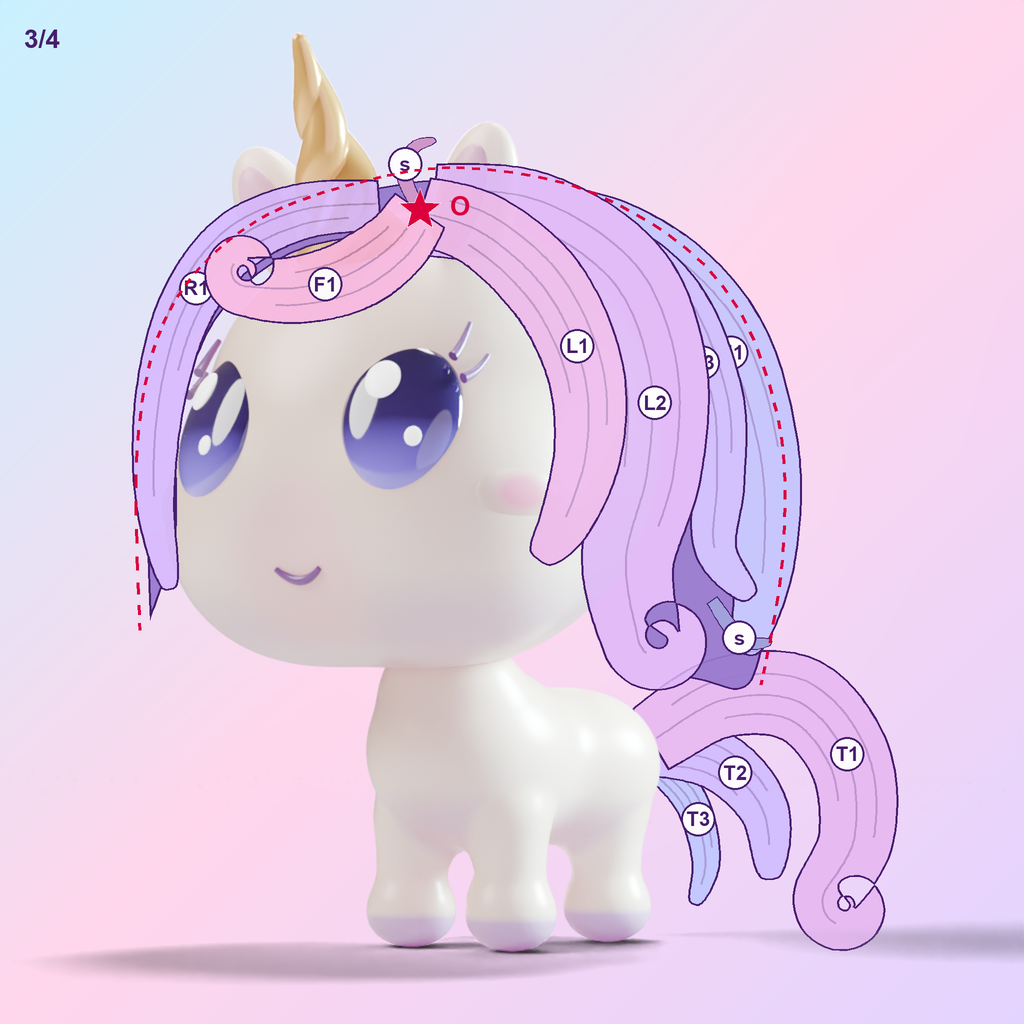
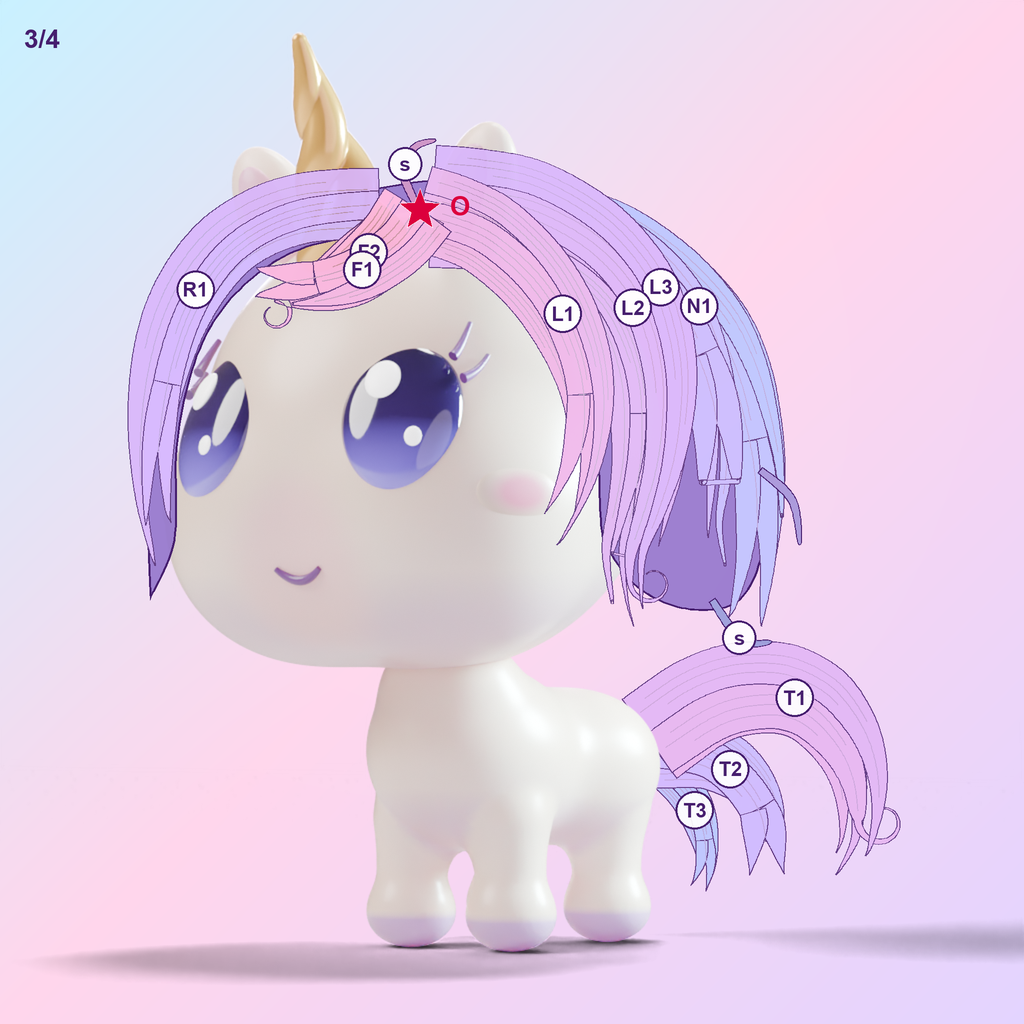
docs(spike): finer mane target from sketchfab and meshy references

Changed region(s): [[0.125, 0.125, 0.875, 0.9062]]

diff --git a/docs/spikes/style-2026-10/target.html b/docs/spikes/style-2026-10/target.html
@@ -141,19 +141,24 @@
             corne.
           </li>
           <li>
-            <b>Trois tailles de mèches</b>, pas une : grosse (L2, T1), moyenne
-            (L1, N1, F1, R1), petite (L3, F2, T3), plus seulement
-            <b>2 brins fins</b> (« s ») placés exprès.
+            <b>Finesse, à la manière des références ci-dessous</b> : chaque
+            mèche lisible (L1, L2…) est un <b>faisceau de 3 à 6 mèches fines</b>
+            de largeurs différentes qui se chevauchent, avec de fins sillons à
+            l'intérieur ; les pointes s'effilent longuement et une sur trois se
+            fourche en deux. Écart entre mèches fines : 11 à 20 px pour une tête
+            d'environ 495 px de large en 3/4 (1/25 à 1/45 de la tête).
           </li>
           <li>
-            <b>Le détail = des sillons sculptés dans chaque mèche</b> (les
-            traits fins à l'intérieur), façon figurine vinyle. Plus de brins
-            séparés en spaghetti (A4 à A7).
+            <b>Mais une hiérarchie</b> : faisceaux de trois tailles — gros (L2,
+            T1), moyens (L1, N1, F1, R1), petits (L3, F2, T3) — et seulement 3
+            brins isolés (« s ») placés exprès. Des mèches fines toutes égales
+            donnent des spaghettis (A4 à A7) : essayé sur cette carte, même
+            résultat.
           </li>
           <li>
-            <b>Trois boucles en tout</b> : bout de la frange F1, bout de L2,
-            bout de la queue T1. Les autres pointes finissent <b>arrondies</b>,
-            pas en aiguille.
+            <b>Trois boucles en tout</b>, portées par la mèche la plus large de
+            son faisceau : bout de la frange F1, bout de L2, bout de la queue
+            T1.
           </li>
           <li>
             <b>Asymétrie voulue</b> : la frange part vers l'œil droit, le volume
@@ -171,6 +176,56 @@
           </li>
         </ol>
       </div>
+
+      <h2>Références de finesse</h2>
+      <p>
+        Trouvées sur Sketchfab (le wiki y renvoie pour les modèles 3D). Liens
+        seulement : leur licence ne permet pas de les copier ici. La finesse de
+        la cible vient surtout des trois premières.
+      </p>
+      <ul>
+        <li>
+          <a
+            href="https://sketchfab.com/3d-models/9edad864ed3140b2a74cd18fb3dabb08"
+            >Hair 45</a
+          >,
+          <a
+            href="https://sketchfab.com/3d-models/c0a7b83bb14f439683c30a3c0a60f44d"
+            >Hair 37</a
+          >,
+          <a
+            href="https://sketchfab.com/3d-models/44b1eaf39cf24fc497e15b44ca0cf8b1"
+            >Hair 40</a
+          >
+          (rumpelshtiltshin) : mèches étroites en couches, sillons fins, pointes
+          effilées et fourchues, quelques brins isolés.
+        </li>
+        <li>
+          <a
+            href="https://sketchfab.com/3d-models/5467d838454146e79413c51f76349768"
+            >Lowpoly Stylized Unicorn</a
+          >
+          (hugechimera) : crinière de licorne en nombreuses petites mèches
+          pointues.
+        </li>
+        <li>
+          <a
+            href="https://www.meshy.ai/fr/posts/01943ba0-b47c-795c-917f-0f5fbd60d637"
+            >Cute little cartoon unicorn</a
+          >
+          (Meshy, CC0) : licorne chibi au dégradé rose → violet → bleu, grande
+          mèche sur le front, crinière d'un côté. Référence de <b>forme</b>
+          seulement : en « mode solide » sa crinière est une masse lisse, la
+          finesse est peinte dans la texture (9 930 faces).
+        </li>
+        <li>
+          <a
+            href="https://sketchfab.com/3d-models/144fe93ac4f54651b25f753067e80d45"
+            >Pony luna</a
+          >
+          (Whalenut) : contre-exemple, une grande nappe lisse sans finesse.
+        </li>
+      </ul>
 
       <h2>Les 4 vues</h2>
       <div class="grid">
@@ -254,7 +309,7 @@
         ['droit', 'Côté droit R1, R2 (plus mince)'],
         ['nuque', 'Nuque N1 à N3 (vue de dos)'],
         ['boucles', '3 boucles seulement (F1, L2, T1)'],
-        ['sillons', 'Détail en sillons sculptés'],
+        ['finesse', 'Finesse (faisceaux de mèches fines)'],
         ['queue', 'Queue T1 à T3'],
         ['longueur', 'Longueur (jusque sous le menton)'],
       ];

diff --git a/docs/spikes/style-2026-10/target/paintover.py b/docs/spikes/style-2026-10/target/paintover.py
@@ -8,6 +8,9 @@ Clump = (label, class, centreline points, max half-width px, curl or None, colou
   class 'M' = medium clump (filled, with sculpted grooves), 'S' = small strand (thin);
   curl = (radius px, turns, +1 / -1 direction), a roll appended to the tip;
   "back" = drawn behind the character (masked by its alpha). Drawn in list order.
+A clump may also be a dict, a section of fine locks (see section_locks): either "edges" (two
+polylines) or "spine" + "half" (a bundle converging to its tip), with "n" locks, colour range
+"t", and optional "curl", "seed", "min_len", "max_w", "overlap", "back", "label".
 Marks: ("base", points) solid big form under every clump, ("origin", x, y, label) the whorl
 every lock starts from, ("silhouette", points) the dashed outline of the big form.
 """
@@ -72,12 +75,19 @@ def normal(c, i):
     return -(b[1] - a[1]) / L, (b[0] - a[0]) / L
 
 
-def ribbon(c, w):
+def fine_width(t, w):
+    """Fine lock: full width to mid-length, then a long gradual taper to a fine point."""
+    s = min(max((t - 0.4) / 0.6, 0.0), 1.0)
+    return w * ((1 - s * s * (3 - 2 * s)) ** 0.85 * 0.97 + 0.03)
+
+
+def ribbon(c, w, prof=width, t0=0.0, t1=1.0):
+    """Outline of a ribbon of half-width prof(t, w) along c; t runs t0 -> t1 over c."""
     n = len(c) - 1
     left, right = [], []
     for i, (x, y) in enumerate(c):
         nx, ny = normal(c, i)
-        ww = width(i / n, w)
+        ww = prof(t0 + (t1 - t0) * i / n, w)
         left.append((x + nx * ww, y + ny * ww))
         right.append((x - nx * ww, y - ny * ww))
     return left + right[::-1]
@@ -112,6 +122,94 @@ def draw_clump(d, label, cls, pts, w, curl, t, font):
         d.text((x, y), label, fill=INK, font=font, anchor="mm")
 
 
+def resample(pts, m):
+    """Polyline -> m points evenly spaced along its length."""
+    c = catmull(pts, 16)
+    acc = [0.0]
+    for a, b in zip(c, c[1:]):
+        acc.append(acc[-1] + math.hypot(b[0] - a[0], b[1] - a[1]))
+    out, j = [], 0
+    for k in range(m):
+        s = acc[-1] * k / (m - 1)
+        while j < len(acc) - 2 and acc[j + 1] < s:
+            j += 1
+        f = (s - acc[j]) / ((acc[j + 1] - acc[j]) or 1)
+        out.append((c[j][0] + (c[j + 1][0] - c[j][0]) * f, c[j][1] + (c[j + 1][1] - c[j][1]) * f))
+    return out
+
+
+def frac(x):
+    return x - math.floor(x)
+
+
+def section_locks(sec):
+    """A big form split into n fine locks flowing between its two edges (screen polylines, root
+    first). Deterministic variation per lock (golden-ratio sequence): length, a slight sideways
+    wave, and a forked tip on every third lock; one lock may end in a curl."""
+    if "spine" in sec:  # a bundle: edges = spine +- half-width, converging towards the tip
+        sp = resample(sec["spine"], 40)
+        a, b = [], []
+        for i, (x, y) in enumerate(sp):
+            nx, ny = normal(sp, i)
+            h = sec["half"] * (1.0 - 0.75 * (i / 39) ** 1.6)
+            a.append((x + nx * h, y + ny * h))
+            b.append((x - nx * h, y - ny * h))
+    else:
+        a, b = resample(sec["edges"][0], 40), resample(sec["edges"][1], 40)
+    n = sec["n"]
+    locks = []
+    for k in range(n):
+        u = (k + 0.5) / n
+        g = frac(k * 0.618 + sec.get("seed", 0.0))
+        length = sec.get("min_len", 0.72) + (1 - sec.get("min_len", 0.72)) * g
+        pts = [(a[i][0] + (b[i][0] - a[i][0]) * u, a[i][1] + (b[i][1] - a[i][1]) * u) for i in range(40)]
+        pts = pts[: max(int(40 * length), 6)]
+        spacing = math.hypot(b[20][0] - a[20][0], b[20][1] - a[20][1]) / n
+        wave = spacing * 0.35
+        pts = [(x + normal(pts, i)[0] * wave * math.sin(math.pi * i / len(pts) + 6.3 * g), y + normal(pts, i)[1] * wave * math.sin(math.pi * i / len(pts) + 6.3 * g)) for i, (x, y) in enumerate(pts)]
+        w = min(spacing * sec.get("overlap", 1.25), sec.get("max_w", 26)) * (0.65 + 0.7 * frac(k * 0.382 + sec.get("seed", 0.0)))
+        widest = max(range(n), key=lambda j: frac(j * 0.382 + sec.get("seed", 0.0)))
+        curl = sec["curl"] if "curl" in sec and k == widest else None
+        locks.append((pts[::3] + [pts[-1]], w, curl, sec["t"][0] + (sec["t"][1] - sec["t"][0]) * u, k % 3 == 1 and not curl))
+    order = sorted(range(n), key=lambda k: (k % 2, k)) if sec.get("interleave", True) else range(n)
+    return [locks[k] for k in order]
+
+
+FINE_GROOVES = ((-0.4, 0.06, 0.62), (0.0, 0.03, 0.8), (0.42, 0.1, 0.55))
+
+
+def draw_fine_lock(d, pts, w, curl, t, fork):
+    """A fine lock: three fine sculpted grooves, a long gradual taper; `fork` splits the last 35 %
+    into two thinner tips that part slightly."""
+    c = catmull([(x * SS, y * SS) for x, y in pts])
+    if curl:
+        c = add_curl(c, (curl[0] * SS, curl[1], curl[2]))
+    col = ramp(t)
+    W = w * SS
+    fill, edge = col + (232,), INK + (210,)
+    n = len(c) - 1
+    if fork:
+        cut = int(n * 0.65)
+        d.polygon(ribbon(c[: cut + 1], W, fine_width, 0.0, 0.4), fill=fill, outline=edge, width=SS)
+        for s in (-1, 1):
+            br = []
+            for i in range(cut, n + 1):
+                nx, ny = normal(c, i)
+                f = (i - cut) / (n - cut)
+                br.append((c[i][0] + nx * s * W * (0.3 + 0.6 * f), c[i][1] + ny * s * W * (0.3 + 0.6 * f)))
+            d.polygon(ribbon(br, W * 0.7, fine_width, 0.3, 1.0), fill=fill, outline=edge, width=SS)
+    else:
+        d.polygon(ribbon(c, W, fine_width), fill=fill, outline=edge, width=SS)
+    for off, start, end in FINE_GROOVES:
+        g = []
+        for i in range(int(n * start), int(n * end)):
+            nx, ny = normal(c, i)
+            ww = fine_width(i / n, W) * off
+            g.append((c[i][0] + nx * ww, c[i][1] + ny * ww))
+        if len(g) > 1:
+            d.line(g, fill=lerp(col, INK, 0.3) + (150,), width=SS)
+
+
 def draw_marks(d, marks, font):
     for kind, *rest in marks:
         if kind == "origin":
@@ -136,8 +234,23 @@ def draw(base, clumps, marks, out, title):
         if kind == "base":
             pts = [(x * SS, y * SS) for x, y in rest[0]]
             df.polygon(catmull(pts + pts[:1], 12), fill=BASE_FILL, outline=INK + (255,), width=2 * SS)
-    for label, cls, pts, w, curl, t, *layer in clumps:
+    for item in clumps:
+        if isinstance(item, dict):  # a section of fine locks
+            for pts, w, curl, t, fork in section_locks(item):
+                draw_fine_lock(db if item.get("back") else df, pts, w, curl, t, fork)
+            continue
+        label, cls, pts, w, curl, t, *layer = item
         draw_clump(db if layer == ["back"] else df, label, cls, pts, w, curl, t, small)
+    for item in clumps:  # section labels on top
+        if isinstance(item, dict) and item.get("label"):
+            if "spine" in item:
+                x, y = resample(item["spine"], 40)[16]
+            else:
+                (x1, y1), (x2, y2) = resample(item["edges"][0], 40)[12], resample(item["edges"][1], 40)[12]
+                x, y = (x1 + x2) / 2, (y1 + y2) / 2
+            x, y = x * SS, y * SS
+            df.ellipse((x - 19 * SS, y - 19 * SS, x + 19 * SS, y + 19 * SS), fill=(255, 255, 255, 235), outline=INK + (255,), width=2 * SS)
+            df.text((x, y), item["label"], fill=INK, font=small, anchor="mm")
     draw_marks(df, marks, font)
     char = Image.open(base.replace("_gradient", "_alpha")).convert("L").resize(size)
     back.putalpha(Image.composite(back.getchannel("A"), Image.new("L", size, 0), Image.eval(char, lambda a: 255 - a)))

diff --git a/docs/spikes/style-2026-10/target/design.py b/docs/spikes/style-2026-10/target/design.py
@@ -1,6 +1,6 @@
 """Target design of the mane and tail (2026-10-24), four views, for paintover.py.
 
-A paint-over MAP, not a render: tapered 2D ribbons placed by hand over the bald renders made by
+A paint-over MAP, not a render: clumps (gesture lines) placed by hand over the bald renders made by
 bald_views.py (same framing as A7), using the skull landmarks that script prints.
 Labels: F forelock, L character's left side (camera side in 3/4), R character's right side,
 N nape, T tail, s small strand. 'back' = drawn behind the character. "base" = the solid big form
@@ -17,6 +17,27 @@ def out(view):
     return os.path.join(HERE, f"target_{view}.png")
 
 
+def bundle(label, spine, half, t, curl=None, back=False, seed=0.0):
+    """One readable clump (gesture = spine, half-width = half) drawn as 3-6 fine locks of varied
+    widths converging to the tip (user, 2026-10-24: « attention à la finesse de la crinière »)."""
+    n = max(3, min(6, round(half / 9)))
+    sec = {"label": label, "spine": spine, "half": half, "n": n, "t": (t - 0.07, t + 0.07), "min_len": 0.78, "seed": seed, "back": back}
+    if curl:
+        sec["curl"] = curl
+    return sec
+
+
+def fine(clumps):
+    """Medium clumps ('M') -> bundles of fine locks; small strands ('S') kept as they are."""
+    res = []
+    for k, (label, cls, pts, w, curl, t, *layer) in enumerate(clumps):
+        if cls == "M":
+            res.append(bundle(label, pts, w, t, curl, layer == ["back"], seed=(k * 0.29) % 1))
+        else:
+            res.append((label, cls, pts, w * 0.6, curl, t, *layer))
+    return res
+
+
 Q = [
     ("T3", "M", [(650, 760), (690, 800), (706, 860), (694, 905)], 16, None, 0.85, "back"),
     ("T2", "M", [(648, 750), (716, 760), (764, 810), (770, 880)], 28, None, 0.6, "back"),
@@ -27,12 +48,13 @@ Q = [
     ("L2", "M", [(432, 210), (530, 222), (615, 280), (652, 370), (650, 470), (628, 560), (640, 640)], 52, (22, 0.85, -1), 0.4),
     ("L1", "M", [(420, 210), (485, 232), (548, 290), (585, 370), (588, 450), (566, 520), (538, 560)], 38, None, 0.2),
     ("s", "S", [(712, 600), (742, 640), (772, 642)], 7, None, 0.9),
+    ("", "S", [(760, 470), (792, 500), (800, 545)], 7, None, 0.7),
     ("F2", "M", [(408, 214), (372, 250), (330, 272), (296, 280)], 20, None, 0.12),
     ("F1", "M", [(420, 210), (395, 245), (350, 276), (295, 290), (245, 288)], 34, (18, 0.9, 1), 0.05),
     ("s", "S", [(418, 208), (404, 174), (414, 148), (436, 140)], 7, None, 0.05),
 ]
 Q_MARKS = [
-    ("base", [(150, 620), (148, 440), (180, 315), (255, 232), (360, 192), (470, 180), (600, 205), (715, 290), (768, 425), (772, 560), (752, 680), (700, 680), (640, 660), (610, 600), (600, 520), (595, 430), (570, 340), (520, 270), (450, 235), (380, 235), (300, 250), (240, 290), (200, 350), (178, 440), (175, 540)]),
+    ("base", [(150, 600), (148, 440), (180, 315), (255, 232), (360, 192), (470, 180), (600, 205), (715, 290), (765, 425), (765, 540), (740, 600), (690, 610), (640, 590), (608, 550), (600, 520), (595, 430), (570, 340), (520, 270), (450, 235), (380, 235), (300, 250), (240, 290), (200, 350), (178, 440), (175, 540)]),
     ("origin", 420, 210, "O"),
     ("silhouette", [(140, 630), (138, 440), (170, 310), (250, 225), (360, 182), (472, 168), (605, 198), (722, 285), (778, 420), (782, 560), (760, 690)]),
 ]
@@ -48,7 +70,7 @@ FRONT = [
     ("s", "S", [(535, 210), (528, 176), (542, 150), (566, 144)], 7, None, 0.05),
 ]
 FRONT_MARKS = [
-    ("base", [(235, 600), (232, 450), (258, 330), (335, 240), (445, 200), (560, 192), (688, 225), (782, 305), (822, 430), (822, 560), (800, 640), (760, 640), (745, 560), (745, 470), (725, 380), (680, 300), (610, 255), (520, 240), (430, 250), (355, 280), (300, 340), (275, 430), (268, 520), (262, 600)]),
+    ("base", [(240, 555), (232, 450), (258, 330), (335, 240), (445, 200), (560, 192), (688, 225), (782, 305), (815, 430), (812, 530), (790, 570), (758, 560), (745, 500), (740, 440), (725, 380), (680, 300), (610, 255), (520, 240), (430, 250), (355, 280), (300, 340), (275, 430), (270, 520), (262, 560)]),
     ("origin", 535, 212, "O"),
     ("silhouette", [(225, 600), (222, 450), (250, 320), (330, 230), (440, 190), (560, 182), (690, 215), (790, 300), (835, 430), (835, 560), (810, 650)]),
 ]
@@ -65,7 +87,7 @@ SIDE = [
     ("s", "S", [(335, 232), (322, 198), (334, 172), (358, 166)], 7, None, 0.05),
 ]
 SIDE_MARKS = [
-    ("base", [(195, 330), (235, 258), (330, 215), (450, 222), (555, 272), (625, 380), (640, 520), (622, 650), (560, 662), (450, 662), (400, 640), (340, 600), (300, 560), (318, 480), (335, 400), (340, 320), (300, 290), (240, 300)]),
+    ("base", [(195, 330), (235, 258), (330, 215), (450, 222), (555, 272), (620, 380), (632, 500), (618, 570), (570, 600), (470, 600), (400, 585), (345, 555), (310, 525), (320, 470), (335, 400), (340, 320), (300, 290), (240, 300)]),
     ("origin", 335, 234, "O"),
     ("silhouette", [(175, 335), (228, 252), (330, 205), (452, 212), (562, 268), (632, 380), (648, 520), (628, 655)]),
 ]
@@ -85,14 +107,20 @@ BACK = [
     ("s", "S", [(452, 248), (440, 214), (452, 188), (476, 182)], 7, None, 0.05),
 ]
 BACK_MARKS = [
-    ("base", [(225, 630), (220, 450), (250, 330), (335, 255), (455, 225), (580, 245), (675, 320), (712, 440), (710, 560), (690, 640), (470, 690), (300, 650)]),
+    ("base", [(232, 560), (222, 450), (250, 330), (335, 255), (455, 225), (580, 245), (675, 320), (708, 440), (702, 540), (665, 590), (470, 615), (290, 590)]),
     ("origin", 452, 250, "O"),
     ("silhouette", [(215, 620), (210, 450), (240, 330), (330, 245), (455, 210), (580, 232), (680, 310), (725, 440), (722, 560), (700, 640)]),
 ]
 
+def solid(marks):
+    """The fine version is slimmer than the first draft's dashed silhouette: the base outline is
+    the big form now."""
+    return [m for m in marks if m[0] != "silhouette"]
+
+
 VIEWS = [
-    (B.format("3q"), Q, Q_MARKS, out("3q"), "3/4"),
-    (B.format("front"), FRONT, FRONT_MARKS, out("front"), "Face"),
-    (B.format("side"), SIDE, SIDE_MARKS, out("side"), "Profil (cote gauche du perso)"),
-    (B.format("back"), BACK, BACK_MARKS, out("back"), "Dos"),
+    (B.format("3q"), fine(Q), solid(Q_MARKS), out("3q"), "3/4"),
+    (B.format("front"), fine(FRONT), solid(FRONT_MARKS), out("front"), "Face"),
+    (B.format("side"), fine(SIDE), solid(SIDE_MARKS), out("side"), "Profil (cote gauche du perso)"),
+    (B.format("back"), fine(BACK), solid(BACK_MARKS), out("back"), "Dos"),
 ]

diff --git a/docs/spikes/style-2026-10/MANE_AUDIT.md b/docs/spikes/style-2026-10/MANE_AUDIT.md
@@ -102,3 +102,25 @@ then `http://127.0.0.1:8765/target.html`), with a copy-paste feedback form.
 - Checked: `bald_views.py` re-renders the committed 3/4 base with a max pixel difference of 1
   (render noise); the cleaned `paintover.py` gives a max difference of 0 against the first draft.
 - Not voted. The build only starts once the user validates the target (or draws on it).
+
+## Finesse pass (2026-10-24, user: « attention à la finesse de la crinière stp; il faut vraiment s'appliquer », « cherche des exemples ou assets sur le web via liens /wiki », « tu as aussi meshy »)
+
+- **Wiki first:** no hair article; `topics/game-dev/bibliotheques-assets-3d-libres.md` points to
+  Sketchfab, `entities/meshy.md` to the Meshy community (CC0 by its ToS §3.3, download on paid
+  plans only).
+- **Sketchfab** (public search API `api.sketchfab.com/v3/search`, thumbnails looked at): the
+  stylized hair sculpts by rumpelshtiltshin (Hair 45 / 37 / 40, Standard licence, links only)
+  show where finesse comes from: narrow locks in layers, fine incised strand lines, long tapers,
+  forked tips, a few lone strands, darker under-layers.
+- **Meshy** (tag pages are public, search needs an account): `/tags/unicorn` (« plus de 544 »),
+  `/tags/hair` (1776), `/tags/mane` (599). Closest: « Cute little cartoon unicorn » (Meshy-4,
+  CC0, 9 930 faces). **Measured in its viewer's solid mode: the mane is one smooth mass; the fine
+  strands are painted in the texture.** So Meshy gives shape and colour references, not fine
+  geometry; it also suggests fine grooves could come from a bump / normal map on simpler locks.
+- **Two failed drafts on the map (kept as lessons):** all-thin equal locks read as spaghetti
+  (the A4-A7 defect again); wide clumps (first board) read as chunky, not fine.
+- **Kept:** each readable clump of the first board becomes a bundle of 3-6 fine locks of varied
+  widths (`paintover.section_locks`, `design.fine`), converging and tapering to the tip, every
+  third tip forked, the curl on the widest lock. Counts (replay: `cd target && python -c "import
+design; [print(v[4], sum(s['n'] for s in v[1] if isinstance(s, dict))) for v in design.VIEWS]"`):
+  3/4 37 locks, front 26, side 30, back 41; lock spacing 11-20 px for a head ~495 px wide in 3/4.
